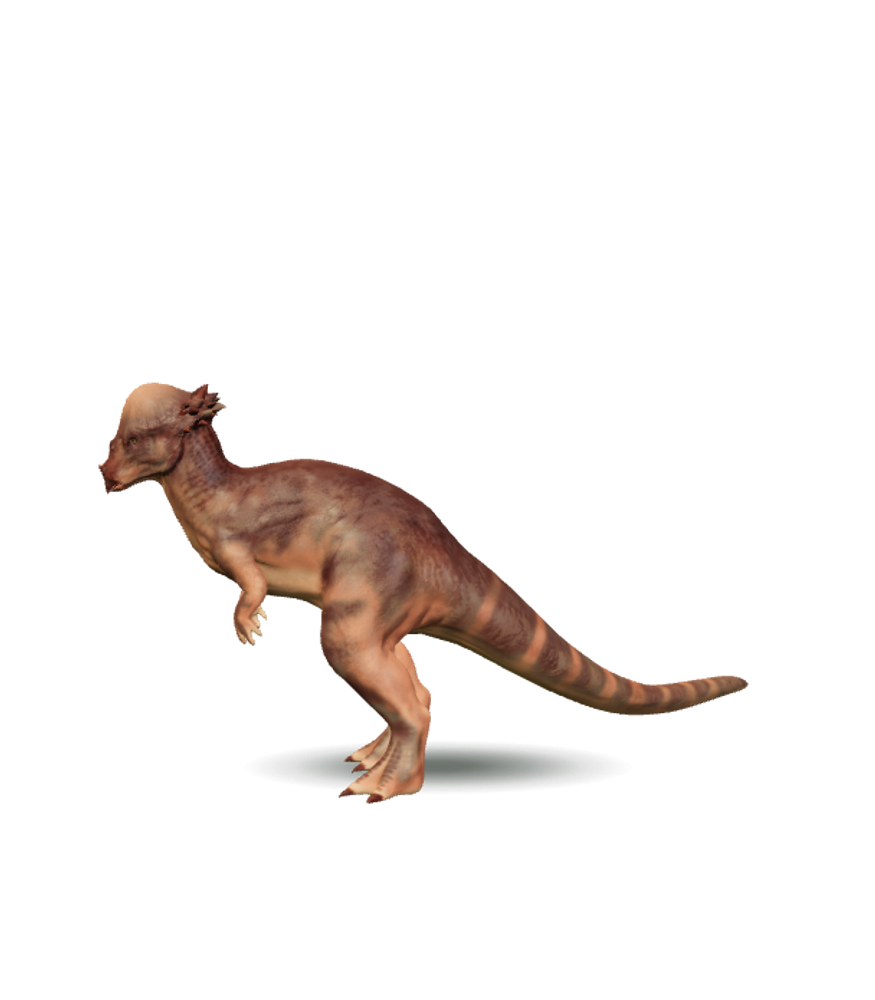
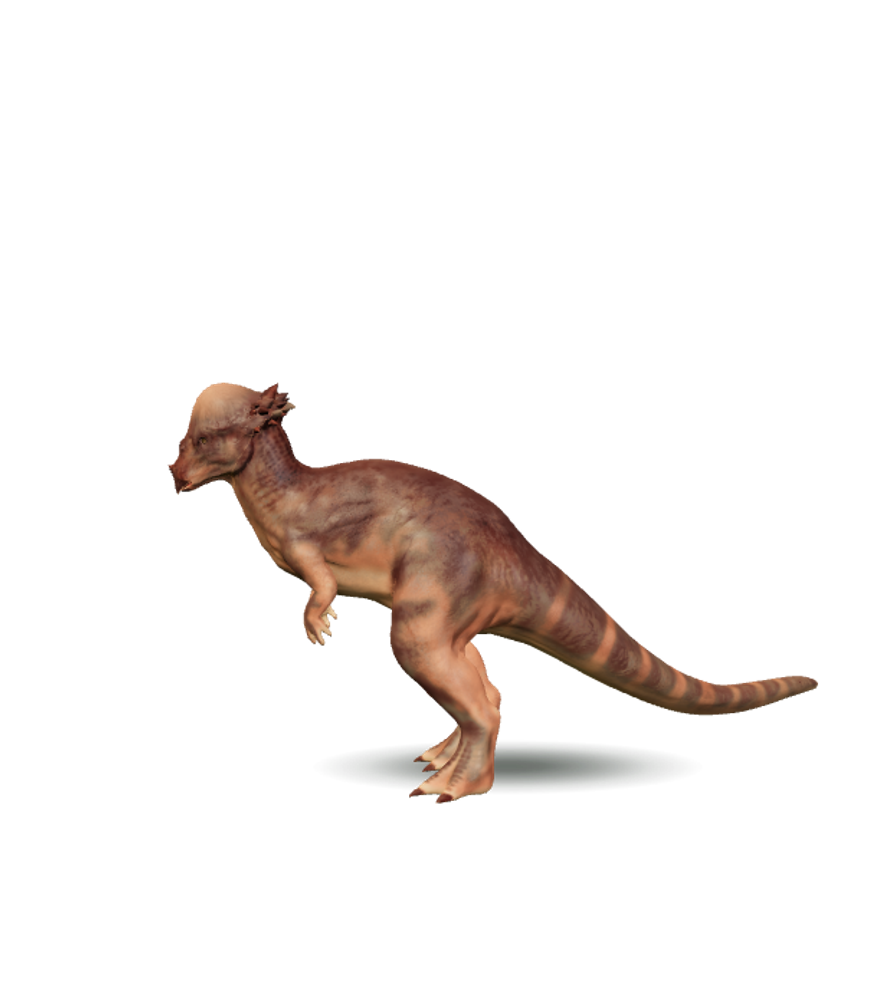
fix: refine tablet detail composition

Changed region(s): [[0.0926, 0.372, 0.9257, 0.806]]

diff --git a/e2e/ssg-pilot.spec.ts b/e2e/ssg-pilot.spec.ts
@@ -372,13 +372,49 @@ test('keeps the English Back to museum action contained at responsive boundaries
 
     const layout = await returnLink.evaluate((link) => {
       const actions = link.closest('.story-actions')
+      const animalTitle = document.querySelector('.animal-title')
+      const introText = document.querySelector('.child-intro > span')
+      const storyCard = document.querySelector('.story-card')
+      const storyPanel = document.querySelector('.story-panel')
       const label = link.querySelector(':scope > span')
-      if (!(actions instanceof HTMLElement) || !(label instanceof HTMLElement)) {
+      if (
+        !(actions instanceof HTMLElement) ||
+        !(animalTitle instanceof HTMLElement) ||
+        !(introText instanceof HTMLElement) ||
+        !(label instanceof HTMLElement) ||
+        !(storyCard instanceof HTMLElement) ||
+        !(storyPanel instanceof HTMLElement)
+      ) {
         throw new Error('The Back to museum action is incomplete.')
       }
       const actionsBox = actions.getBoundingClientRect()
       const labelStyle = getComputedStyle(label)
       const linkBox = link.getBoundingClientRect()
+      const panelBox = storyPanel.getBoundingClientRect()
+      const panelStyle = getComputedStyle(storyPanel)
+      const panelInnerWidth =
+        panelBox.width -
+        Number.parseFloat(panelStyle.paddingLeft) -
+        Number.parseFloat(panelStyle.paddingRight)
+      const storyCardBox = storyCard.getBoundingClientRect()
+      const titleStyle = getComputedStyle(animalTitle)
+      const titleRange = document.createRange()
+      titleRange.selectNodeContents(animalTitle)
+      const titleTextBox = titleRange.getBoundingClientRect()
+      const titleLineCount = new Set(
+        Array.from(titleRange.getClientRects()).map((line) =>
+          Math.round(line.top),
+        ),
+      ).size
+      const introStyle = getComputedStyle(introText)
+      const introRange = document.createRange()
+      introRange.selectNodeContents(introText)
+      const introTextBox = introRange.getBoundingClientRect()
+      const introLineCount = new Set(
+        Array.from(introRange.getClientRects()).map((line) =>
+          Math.round(line.top),
+        ),
+      ).size
       const labelVisible = labelStyle.display !== 'none'
       const textRange = document.createRange()
       textRange.selectNodeContents(label)
@@ -396,6 +432,7 @@ test('keeps the English Back to museum action contained at responsive boundaries
         actionsLeft: actionsBox.left,
         actionsRight: actionsBox.right,
         actionsTop: actionsBox.top,
+        actionsWidth: actionsBox.width,
         documentScrollWidth: document.documentElement.scrollWidth,
         labelDisplay: labelStyle.display,
         linkBottom: linkBox.bottom,
@@ -408,6 +445,24 @@ test('keeps the English Back to museum action contained at responsive boundaries
         linkScrollWidth: link.scrollWidth,
         linkTop: linkBox.top,
         linkWidth: linkBox.width,
+        panelInnerWidth,
+        introFontSize: Number.parseFloat(introStyle.fontSize),
+        introLineCount,
+        introTextBottom: introTextBox.bottom,
+        introTextLeft: introTextBox.left,
+        introTextRight: introTextBox.right,
+        introTextTop: introTextBox.top,
+        storyCardBottom: storyCardBox.bottom,
+        storyCardLeft: storyCardBox.left,
+        storyCardRight: storyCardBox.right,
+        storyCardTop: storyCardBox.top,
+        storyCardWidth: storyCardBox.width,
+        titleFontSize: Number.parseFloat(titleStyle.fontSize),
+        titleLineCount,
+        titleTextBottom: titleTextBox.bottom,
+        titleTextLeft: titleTextBox.left,
+        titleTextRight: titleTextBox.right,
+        titleTextTop: titleTextBox.top,
         textBottom: textBox?.bottom ?? null,
         textLeft: textBox?.left ?? null,
         textLineCount,
@@ -451,6 +506,54 @@ test('keeps the English Back to museum action contained at responsive boundaries
       layout.documentScrollWidth,
       `${viewport.name}: page must not overflow horizontally`,
     ).toBeLessThanOrEqual(layout.viewportWidth + 1)
+
+    if (
+      viewport.width >= 768 &&
+      viewport.width <= 1023 &&
+      viewport.height > viewport.width
+    ) {
+      expect(
+        layout.storyCardWidth / layout.panelInnerWidth,
+        `${viewport.name}: story copy must retain at least half of the card`,
+      ).toBeGreaterThanOrEqual(0.52)
+      expect(
+        layout.actionsWidth / layout.panelInnerWidth,
+        `${viewport.name}: actions must not squeeze the story copy`,
+      ).toBeLessThanOrEqual(0.44)
+      expect(
+        layout.titleFontSize,
+        `${viewport.name}: title font`,
+      ).toBeGreaterThanOrEqual(32)
+      expect(
+        layout.introFontSize,
+        `${viewport.name}: intro font`,
+      ).toBeGreaterThanOrEqual(14)
+      expect(layout.titleLineCount, `${viewport.name}: title lines`).toBe(1)
+      expect(
+        layout.introLineCount,
+        `${viewport.name}: intro lines`,
+      ).toBeLessThanOrEqual(3)
+      for (const [edge, value, boundary] of [
+        ['title left', layout.titleTextLeft, layout.storyCardLeft],
+        ['title top', layout.titleTextTop, layout.storyCardTop],
+        ['intro left', layout.introTextLeft, layout.storyCardLeft],
+        ['intro top', layout.introTextTop, layout.storyCardTop],
+      ] as const) {
+        expect(value, `${viewport.name}: ${edge}`).toBeGreaterThanOrEqual(
+          boundary - 1,
+        )
+      }
+      for (const [edge, value, boundary] of [
+        ['title right', layout.titleTextRight, layout.storyCardRight],
+        ['title bottom', layout.titleTextBottom, layout.storyCardBottom],
+        ['intro right', layout.introTextRight, layout.storyCardRight],
+        ['intro bottom', layout.introTextBottom, layout.storyCardBottom],
+      ] as const) {
+        expect(value, `${viewport.name}: ${edge}`).toBeLessThanOrEqual(
+          boundary + 1,
+        )
+      }
+    }
 
     if (viewport.hidesLabel) {
       expect(layout.labelDisplay, `${viewport.name}: compact label`).toBe('none')

diff --git a/e2e/museum.spec.ts b/e2e/museum.spec.ts
@@ -10,6 +10,8 @@ interface NormalizedAlphaBounds {
   readonly centerY: number
   readonly height: number
   readonly pixelCount: number
+  readonly visualCenterX: number
+  readonly visualCenterY: number
   readonly xMax: number
   readonly xMin: number
   readonly yMax: number
@@ -31,6 +33,9 @@ async function normalizedAlphaBounds(
   let maxX = -1
   let maxY = -1
   let pixelCount = 0
+  let alphaWeight = 0
+  let weightedX = 0
+  let weightedY = 0
 
   for (let y = 0; y < info.height; y += 1) {
     for (let x = 0; x < info.width; x += 1) {
@@ -39,6 +44,9 @@ async function normalizedAlphaBounds(
         continue
       }
       pixelCount += 1
+      alphaWeight += alpha
+      weightedX += (x + 0.5) * alpha
+      weightedY += (y + 0.5) * alpha
       minX = Math.min(minX, x)
       minY = Math.min(minY, y)
       maxX = Math.max(maxX, x)
@@ -59,6 +67,8 @@ async function normalizedAlphaBounds(
     centerY: (yMin + yMax) / 2,
     height: yMax - yMin,
     pixelCount,
+    visualCenterX: weightedX / alphaWeight / info.width,
+    visualCenterY: weightedY / alphaWeight / info.height,
     width: xMax - xMin,
     xMax,
     xMin,
@@ -1908,6 +1918,14 @@ test.describe('first-frame preview silhouette', () => {
       profile: 'tabletPortrait',
       width: 768,
     },
+    {
+      height: 1329,
+      name: 'detail-tablet-portrait-844x1329',
+      path: './en/animals/pachycephalosaurus/',
+      poster: 'preview-tablet-portrait',
+      profile: 'tabletPortrait',
+      width: 844,
+    },
   ] as const
 
   for (const viewport of previewViewports) {
@@ -1930,13 +1948,15 @@ test.describe('first-frame preview silhouette', () => {
       })
 
       const response = await page.goto(
-        './en/?animal=pachycephalosaurus',
+        'path' in viewport
+          ? viewport.path
+          : './en/?animal=pachycephalosaurus',
         { waitUntil: 'domcontentloaded' },
       )
       expect(response?.ok()).toBe(true)
       await expect(
         page.getByRole('heading', {
-          level: 2,
+          level: 'path' in viewport ? 1 : 2,
           name: 'Pachycephalosaurus',
         }),
       ).toBeVisible()
@@ -1977,6 +1997,8 @@ test.describe('first-frame preview silhouette', () => {
       const modelStill = page.locator('.model-still')
       const canvas = page.locator('.viewer-canvas')
       await expect(compositionFrame).toBeVisible()
+      const stillCompositionBox = await compositionFrame.boundingBox()
+      expect(stillCompositionBox).not.toBeNull()
       await expect(modelStill).toBeVisible()
       await expect(page.locator('.model-viewport')).toHaveAttribute(
         'data-preview-profile',
@@ -2038,6 +2060,9 @@ test.describe('first-frame preview silhouette', () => {
           }),
       )
 
+      const webglCompositionBox = await compositionFrame.boundingBox()
+      expect(webglCompositionBox).not.toBeNull()
+
       const webglPng = await compositionFrame.screenshot({
         animations: 'disabled',
         omitBackground: true,
@@ -2059,8 +2084,16 @@ test.describe('first-frame preview silhouette', () => {
       if (!stillBounds || !webglBounds) {
         throw new Error(`${viewport.name} did not produce two silhouettes.`)
       }
+      if (!stillCompositionBox || !webglCompositionBox) {
+        throw new Error(`${viewport.name} did not produce two composition boxes.`)
+      }
 
-      const diagnostics = JSON.stringify({ stillBounds, webglBounds })
+      const diagnostics = JSON.stringify({
+        stillBounds,
+        stillCompositionBox,
+        webglBounds,
+        webglCompositionBox,
+      })
       for (const dimension of ['width', 'height'] as const) {
         expect(
           Math.abs(stillBounds[dimension] - webglBounds[dimension]),
@@ -2077,6 +2110,45 @@ test.describe('first-frame preview silhouette', () => {
         boundsIntersectionOverUnion(stillBounds, webglBounds),
         `${viewport.name} bounding-box IoU: ${diagnostics}`,
       ).toBeGreaterThanOrEqual(0.85)
+      if (viewport.profile === 'tabletPortrait') {
+        for (const bounds of [stillBounds, webglBounds]) {
+          expect(
+            bounds.visualCenterX,
+            `${viewport.name} visual centre: ${diagnostics}`,
+          ).toBeGreaterThanOrEqual(0.47)
+          expect(
+            bounds.visualCenterX,
+            `${viewport.name} visual centre: ${diagnostics}`,
+          ).toBeLessThanOrEqual(0.52)
+        }
+      }
+      if ('path' in viewport) {
+        for (const [bounds, box] of [
+          [stillBounds, stillCompositionBox],
+          [webglBounds, webglCompositionBox],
+        ] as const) {
+          const absoluteVisualCenterX =
+            (box.x + bounds.visualCenterX * box.width) / viewport.width
+          const absoluteVisualCenterY =
+            (box.y + bounds.visualCenterY * box.height) / viewport.height
+          expect(
+            absoluteVisualCenterX,
+            `${viewport.name} absolute horizontal centre: ${diagnostics}`,
+          ).toBeGreaterThanOrEqual(0.47)
+          expect(
+            absoluteVisualCenterX,
+            `${viewport.name} absolute horizontal centre: ${diagnostics}`,
+          ).toBeLessThanOrEqual(0.52)
+          expect(
+            absoluteVisualCenterY,
+            `${viewport.name} absolute vertical centre: ${diagnostics}`,
+          ).toBeGreaterThanOrEqual(0.56)
+          expect(
+            absoluteVisualCenterY,
+            `${viewport.name} absolute vertical centre: ${diagnostics}`,
+          ).toBeLessThanOrEqual(0.62)
+        }
+      }
     })
   }
 })

diff --git a/src/styles.css b/src/styles.css
@@ -3880,6 +3880,16 @@ a:focus-visible {
     grid-template-columns: minmax(116px, 1.05fr) minmax(100px, 0.9fr) minmax(76px, 0.64fr);
   }
 
+  .stage-actions {
+    top: max(202px, calc(env(safe-area-inset-top) + 192px));
+  }
+
+  .model-gesture-hint {
+    bottom: max(116px, calc(env(safe-area-inset-bottom) + 108px));
+  }
+}
+
+@media (max-width: 1023px) and (min-width: 768px) and (orientation: landscape) {
   .museum-experience[data-page-kind="animal-detail"] .story-actions {
     grid-template-columns:
       minmax(0, 1fr)
@@ -3889,14 +3899,6 @@ a:focus-visible {
 
   .museum-experience[data-page-kind="animal-detail"] .collection-open-button {
     grid-column: auto;
-  }
-
-  .stage-actions {
-    top: max(202px, calc(env(safe-area-inset-top) + 192px));
-  }
-
-  .model-gesture-hint {
-    bottom: max(116px, calc(env(safe-area-inset-bottom) + 108px));
   }
 }
 

diff --git a/src/content/animals/pachycephalosaurus/package.ts b/src/content/animals/pachycephalosaurus/package.ts
@@ -13,6 +13,7 @@ export const animalDefinition = definePublishedAnimal({
   presentation: {
     initialYawDegrees: -90,
     landscapeVerticalOffset: 0.05,
+    portraitHorizontalOffset: 0.08,
     portraitVerticalOffset: 0.07,
     safeAreaPadding: 0.1,
     shadow: 'ground',
